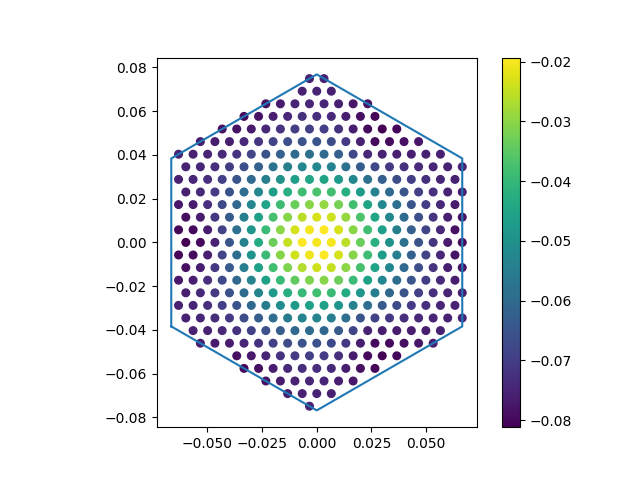
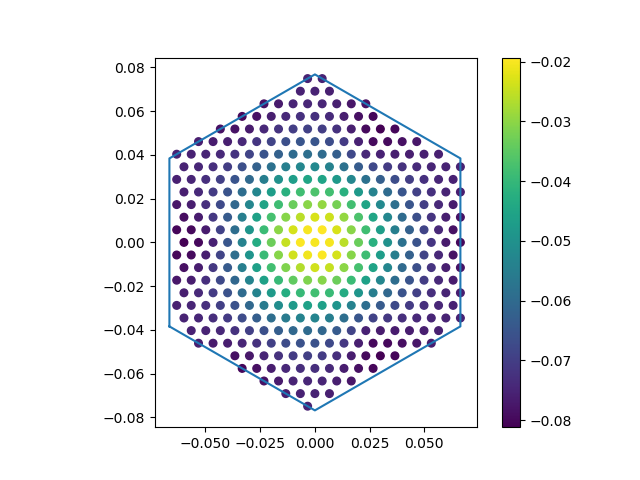
form factors added

diff --git a/bubble_valleyband_momentum_cut_form_fact.py b/bubble_valleyband_momentum_cut_form_fact.py
@@ -205,9 +205,11 @@ for l in range(Nsamp*Nsamp):
     psi_plus_a.append(wave1)
     psi_min_a.append(wave2)
 
-psi_plus=np.reshape(np.array(psi_plus_a),[Nsamp,Nsamp,np.shape(n1)[0],np.shape(n1)[1],nbands,4])
+psi_plus_r=np.reshape(np.array(psi_plus_a),[Nsamp,Nsamp,np.shape(n1)[0],np.shape(n1)[1],nbands,4])
+psi_plus=np.array(psi_plus_a)
 Ene_valley_plus= np.reshape(Ene_valley_plus_a,[Nsamp,Nsamp,nbands])
-psi_min=np.reshape(np.array(psi_min_a),[Nsamp,Nsamp,np.shape(n1)[0],np.shape(n1)[1],nbands,4])
+psi_min_r=np.reshape(np.array(psi_min_a),[Nsamp,Nsamp,np.shape(n1)[0],np.shape(n1)[1],nbands,4])
+psi_min=np.array(psi_min_a)
 Ene_valley_min= np.reshape(Ene_valley_min_a,[Nsamp,Nsamp,nbands])
 Z= np.reshape(Ene_valley_plus_a,[Nsamp,Nsamp,nbands])
 
@@ -543,9 +545,9 @@ plt.show()
 #####INTEGRAND FUNCTION
 dS_in=Vol_rec/(Nsamp*Nsamp)
 xi=1
-def integrand(nx,ny,ek,w,mu,T):
-    edk=ek
-    edkq=ek[nx,ny]
+def integrand(nx,ny,ekn,ekm,w,mu,T):
+    edk=ekn
+    edkq=ekm[nx,ny]
     nfk= 1/(np.exp(edk/T)+1)
     nfkq= 1/(np.exp(edkq/T)+1)
     eps=eta ##SENSITIVE TO DISPERSION
@@ -577,19 +579,31 @@ for omegas_m_i in omegas:
         j=int((l-i)/Nsamp)
         n_1pp=(n_1p+n_1p[i,j])%Nsamp
         n_2pp=(n_2p+n_2p[i,j])%Nsamp
-
+        integrand_var=0
+        #save one reshape below by reshaping n's
+        
         #####all bands for the + valley
         for nband in range(nbands):
-
-            ek=Ene_valley_plus[:,:,nband]
-            bub=bub+np.sum(integrand(n_1pp,n_2pp,ek,omegas_m_i,mu,T))*dS_in
+            for mband in range(nbands):
+                Lambd_nm_plus=np.reshape( np.diag(np.tensordot(psi_plus[:,:,:,nband,:],np.reshape(psi_plus_r[n_1pp,n_2pp,:,:,mband,:],[Nsamp**2,np.shape(n1)[0],np.shape(n1)[1],4]), axes=([1,2,3],[1,2,3]))) ,[Nsamp,Nsamp])
+                #Lambd_nm_plus=int(nband==mband)
+                ek_n=Ene_valley_plus[:,:,nband]
+                ek_m=Ene_valley_plus[:,:,mband]
+                integrand_var=integrand_var+integrand(n_1pp,n_2pp,ek_n,ek_m,omegas_m_i,mu,T)*Lambd_nm_plus
+                #print(np.shape(integrand_var))
 
         #####all bands for the - valley
         for nband in range(nbands):
-        
-            ek=Ene_valley_min[:,:,nband]
-            bub=bub+np.sum(integrand(n_1pp,n_2pp,ek,omegas_m_i,mu,T))*dS_in
-        
+            for mband in range(nbands):
+                Lambd_nm_min=np.reshape( np.diag(np.tensordot(psi_min[:,:,:,nband,:],np.reshape(psi_min_r[n_1pp,n_2pp,:,:,mband,:],[Nsamp**2,np.shape(n1)[0],np.shape(n1)[1],4]), axes=([1,2,3],[1,2,3]))) ,[Nsamp,Nsamp])
+                #Lambd_nm_min=int(nband==mband)
+                ek_n=Ene_valley_min[:,:,nband]
+                ek_m=Ene_valley_min[:,:,mband]
+                integrand_var=integrand_var+integrand(n_1pp,n_2pp,ek_n,ek_m,omegas_m_i,mu,T)*Lambd_nm_min
+                #print(np.shape(integrand_var))
+
+        bub=bub+np.sum(integrand_var)*dS_in
+
         sd.append( bub )
 
     integ.append(sd)
@@ -662,7 +676,7 @@ plt.yticks(Npl_Y,yl)
 plt.xlabel(r"$q_x$",size=16)
 plt.ylabel(r"$\omega$",size=16)
 plt.colorbar()
-plt.savefig("Imchi.png", dpi=300)
+plt.savefig("Imchi2.png", dpi=300)
 
 """
 
